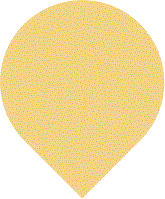
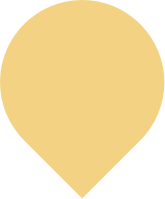
new

diff --git a/static/js/textarr.js b/static/js/textarr.js
@@ -69,7 +69,8 @@ let textArr = [
 
 let balloon = `
     <div class="balloon-wrap">
-    
+        <img src="static/images/balloon.png" id="bg-balloon-small">
+        <img src="static/images/balloon.png" id="bg-balloon-large">
         <img src="static/images/logo.png" id="bg-balloon-logo">
     </div>
     <div class="connect" style="width: 100%; display: flex;"></div>`

diff --git a/static/css/index.css b/static/css/index.css
@@ -164,7 +164,11 @@ img#bg-balloon-logo{
         flex-direction: column;
     }
     #resume,
-    
+    #codeEdit{
+        height: 50vh!important;
+        width: 100vw!important;
+        min-width: 100vw!important;
+    }
     .line-wrap{
         padding-left: 5px;
     }

diff --git a/index.html b/index.html
@@ -11,6 +11,7 @@
     <style id="styleContent"></style>
 </head>
 <body>
+    <pre id="codeEdit" class="language-css" onscroll="toggleScrollBar(event)"></pre>
     <div id="resume" onscroll="toggleScrollBar(event)"></div>
 </body>
 <script src="static/js/textarr.js"></script>
